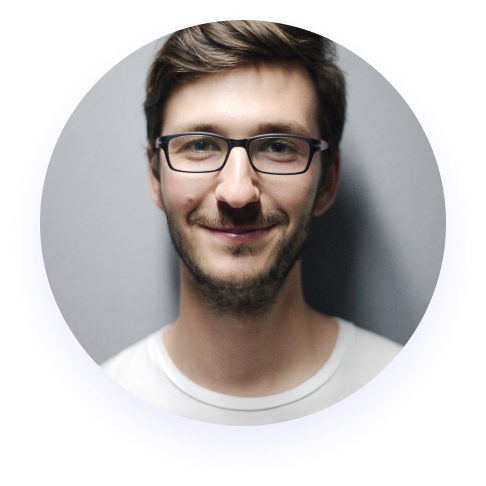
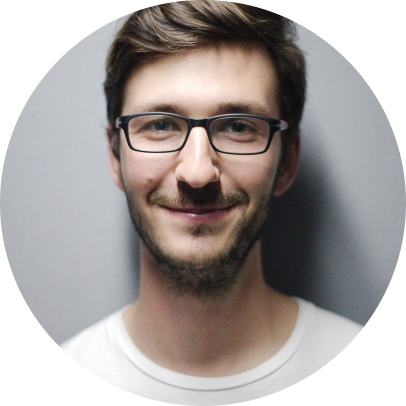
style(Profile): finished

diff --git a/src/components/Profile.jsx b/src/components/Profile.jsx
@@ -8,7 +8,7 @@ function Profile() {
   return (
     <div className="profile-container">
       <div className="profile-left">
-        <div>
+        <div className="contentContainer">
           <p className="font24">Hi!</p>
           <p className="font40 semiBold">
             I’m Mohammad Reza.
@@ -16,30 +16,32 @@ function Profile() {
           </p>
         </div>
 
-        <div>
+        <div className="contentContainer">
           <p className="font18">
             Frontend developer based in tehran, Iran.
-            <br />I am coding with a clean and beautiful problem solving in
-            mind.
+            <br />I am coding with a clean and beautiful problem
+            <br />
+            solving in mind.
           </p>
-          <div className="social-contact">
-            <p className="font18">Follow me</p>
+
+          <div className="socialContactContainer">
+            <p className="font18 fontGray">Follow me</p>
             <div className="social-icons">
               <SocialButton data={socialIcon} />
             </div>
           </div>
         </div>
 
-        <div>
-          <button className="medium">Send Request</button>
-          <button className="medium">Download CV</button>
+        <div className="functionButton">
+          <button className="request medium font18">Send Request</button>
+          <button className="download medium font18">Download CV</button>
         </div>
       </div>
 
       <div className="profile-right">
         <img src={profileImage} />
-        <img src={profileImageDecor} />
-        <img src={profileImageDecor} />
+        <img src={profileImageDecor} className="decor-left" />
+        <img src={profileImageDecor} className="decor-right" />
       </div>
     </div>
   );

diff --git a/src/css/Profile.css b/src/css/Profile.css
@@ -3,14 +3,38 @@
   flex-direction: row;
   justify-content: space-between;
 
-  height: 500px;
-  padding: 100px;
+  height: 505px;
+  margin: 100px;
 }
+
+/* --------------------------------- */
 
 .profile-left {
   display: flex;
   flex-direction: column;
   justify-content: space-between;
+
+  gap: 3rem;
+  flex: 2;
+}
+
+.contentContainer {
+  display: flex;
+  flex-direction: column;
+  gap: 1rem;
+}
+
+.socialContactContainer {
+  display: flex;
+  flex-direction: row;
+  align-items: center;
+
+  gap: 1rem;
+}
+
+.circleButtonContainer {
+  display: flex;
+  flex-direction: row;
 }
 
 .circleButton {
@@ -19,4 +43,54 @@
   border: none;
   border-radius: 50%;
   margin: 0 0.5rem;
+
+  display: flex;
+  justify-content: center;
+  align-items: center;
+}
+
+.functionButton button {
+  height: 3.438rem;
+  width: 9.438rem;
+  border-radius: 10px;
+}
+
+.functionButton .request {
+  background-color: #ff2950;
+  color: #f9f9f9;
+  border: none;
+
+  margin-right: 2rem;
+}
+
+.functionButton .download {
+  border: 2px solid #ff9b70;
+  background-color: hsla(0, 0%, 100%, 0);
+  color: hsla(0, 0%, 13%, 0.5);
+}
+
+/* ------------------------ */
+
+.profile-right {
+  display: flex;
+  flex-direction: column;
+  justify-content: center;
+  align-items: center;
+  flex: 2;
+
+  position: relative;
+}
+
+.profile-right .decor-left {
+  position: absolute;
+  bottom: 0px;
+  left: 0px;
+  z-index: -1;
+}
+
+.profile-right .decor-right {
+  position: absolute;
+  top: 0px;
+  right: 0px;
+  z-index: -1;
 }

diff --git a/src/components/SocialButton.jsx b/src/components/SocialButton.jsx
@@ -1,13 +1,13 @@
 const SocialButton = ({ data }) => {
   return (
-    <div>
+    <div className="circleButtonContainer">
       {data.map((item, index) => (
         <button
           key={index}
           style={{ backgroundColor: item.color }}
           className="circleButton"
         >
-          <img src={item.src} />
+          <img src={item.src} className="icon" />
         </button>
       ))}
     </div>

diff --git a/src/index.css b/src/index.css
@@ -31,3 +31,9 @@ html {
 .medium {
   font-weight: 500;
 }
+
+/* -------------------- */
+
+.fontGray {
+  color: hsla(0, 0%, 13%, 0.5);
+}
